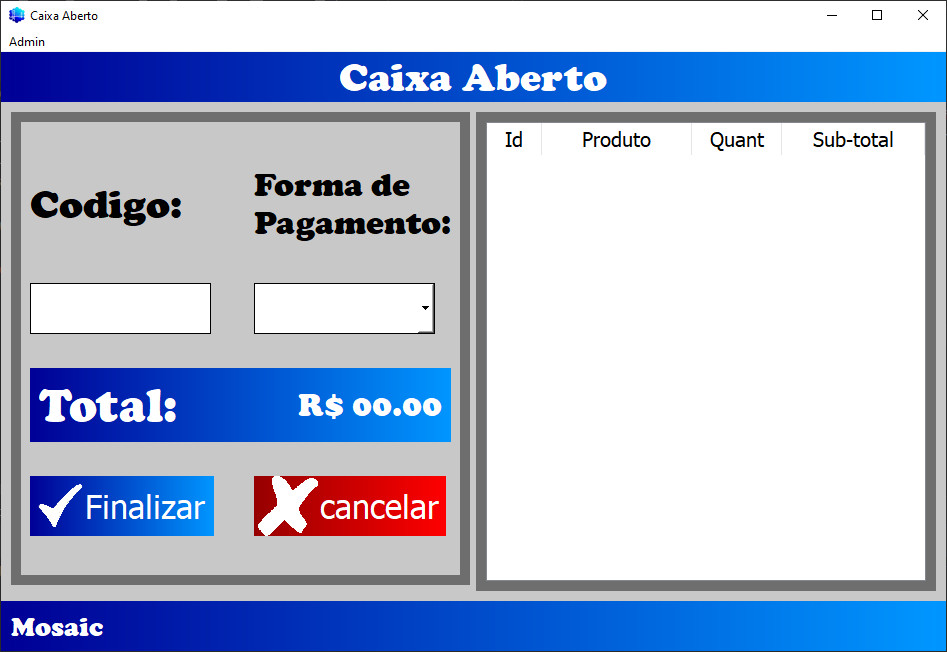
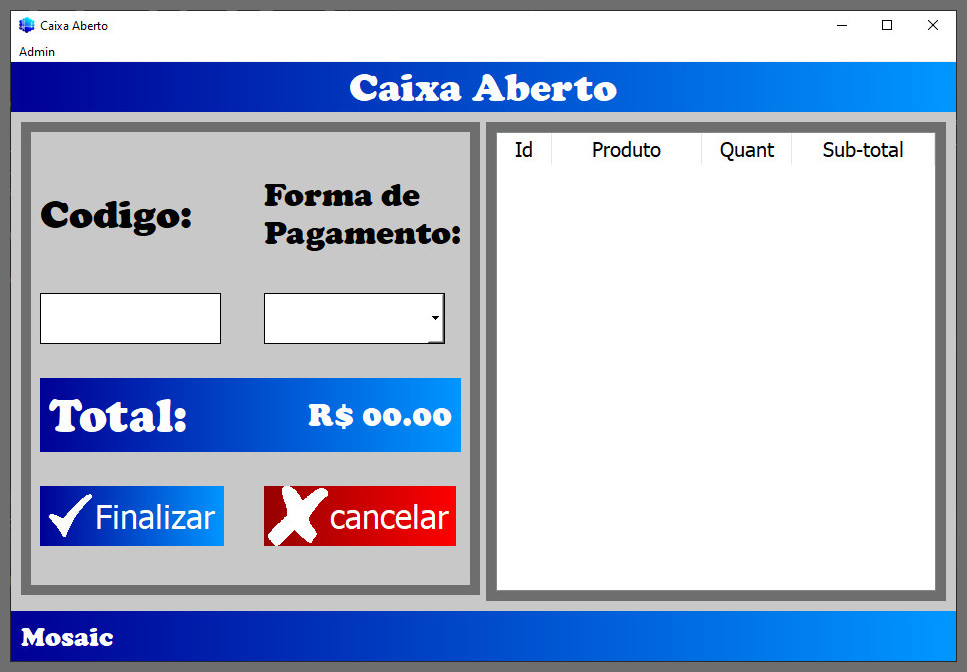
site2.4

Changed region(s): [[0.0, 0.0, 1.0, 1.0], [0.245, 0.2454, 0.49, 0.3681], [0.3062, 0.5521, 0.49, 0.6748]]

diff --git a/index.html b/index.html
@@ -25,13 +25,12 @@
         </h2>
 
         <div class='conteudo' id='1'>
-        
             <div class='texto'>
                 <p>
                     Mosaic é um aplicativo de sistema de caixa para pequenos negócios que possibilita aos usuários mais organização, com anotações das vendas e a produção de um pequeno relatório com informações importantes, tais como: ranking das categorias, produtos mais vendidos, número de produtos vendidos e faturamento total. Ter essas informações de forma facilitada auxilia o usuário a tomar decisões como investimentos e estoque.
                 </p>
 
-                 <img src="img/caixa.jpeg" alt="caixa" style="max-width: 800px;" class='main'>
+                 <img src="img/caixa.jpeg" alt="caixa" style="max-width: 1000px;" class='image'>
                 
                  <p>
                     O aplicativo também pode ser usado em vários tipos de negócios devido sua capacidade de cadastro não só de produtos como também por categorias e formas de pagamento. Desta forma, o Mosaic pode ser aplicado em diversos negócios de lanchonetes até mesmo em pequenas lojas. <br>
@@ -39,17 +38,16 @@
                 </p>
             </div>
         </div>
+        <div class='link'>
+        <ul>
+            <li>
+            <a href="#">
+                Download para Windows
+            </a>
+            </li>
+        </ul>
+        </div>
 
     </main>
-    <footer>
-    <div class='link'>
-        
-        <a href="$">
-            <p>
-                Instagram
-            </p>
-        </a>
-    </div>
-    </footer>
 </body>
 </html>

diff --git a/style.css b/style.css
@@ -21,7 +21,7 @@ body {
 main {
     background-color: #c8c8c8;
     font-size: 30px;
-    padding: 0px 10px;
+    padding: 10px 10px;
     margin: auto;
     box-shadow: 5px 5px 10px rgb(0, 0, 150);
     border-radius: 5px;
@@ -33,10 +33,6 @@ header {
     color: #ffffff;
     margin: 0px;
 } 
-a {
-    color: white;
-}
-
 h1 {
     color: white;
     font-family: 'azonix';
@@ -48,7 +44,6 @@ h2 {
     width: fit-content;
     font-size: 50px;
     font-family: 'azonix';
-    letter-spacing: 1px;
     margin-bottom: 10px;
     border-style: solid;
     border-width: 0px 0px 12.5px 0px;
@@ -56,22 +51,36 @@ h2 {
         to right, rgb(0, 0, 150), rgb(0, 155, 255));
     border-image-slice: 1;
 }
-.main {
-    width: 95%;
-    border: solid 10px rgb(110,110,110);
-    background-color: black;
+ul {
+    list-style-type: square;
+}
+.image {
+    width: 100%;
     margin: 0px 5px 0px 0px;   
 }
+
 .link {
-    color: white;
-    background: none;
-    float: left;
-    display: inline-block;
+    width: 400px;
+    min-height: 44px;
+    background-color: white;
+    border-radius: 5px;
+    box-shadow: 5px 5px 5px rgb(110,110,110);
+    margin: auto;
+    font-size: 30px;
+}
+a:hover {
+    color: rgb(0, 70, 255);
+}
+a:active {
+    color: rgb(255,255,255);
 }
 
 @media (max-width: 500px) {
     main {
         text-align: center;
+        font-size: 25px;
+    }
+    .link {
         font-size: 25px;
     }
 }
